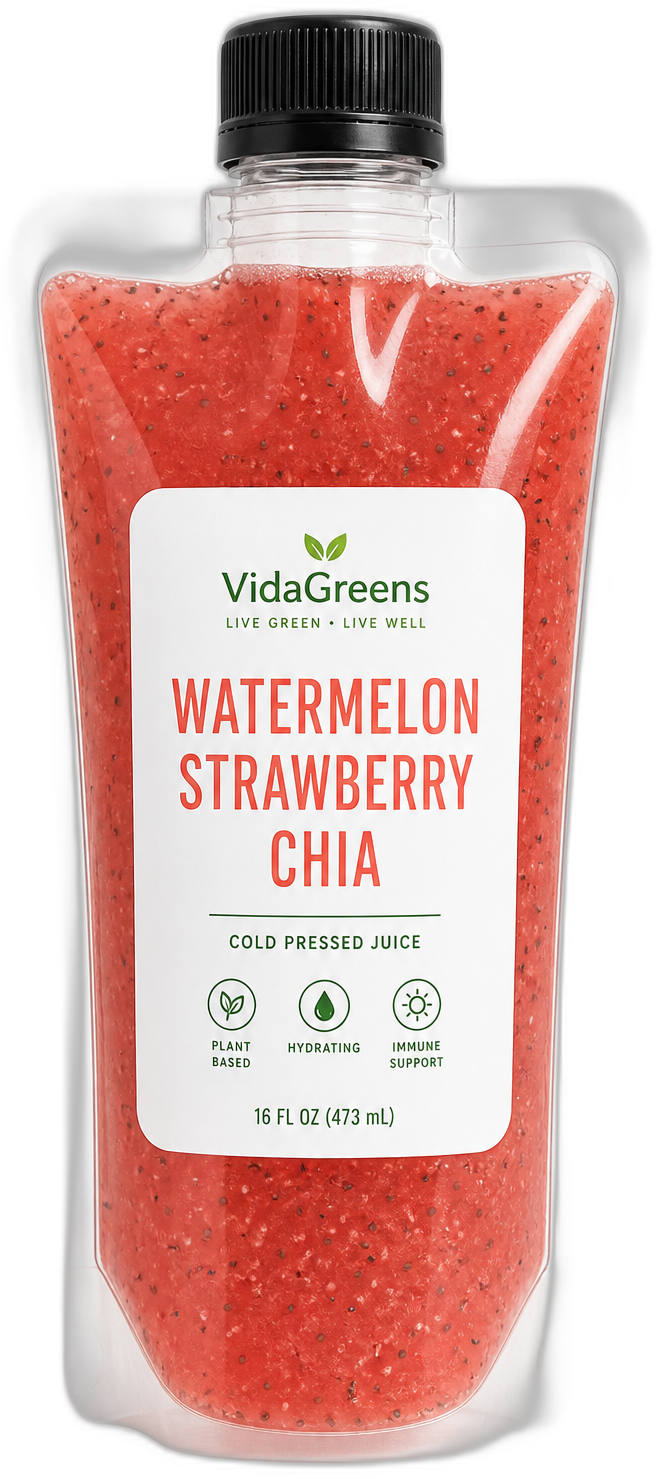
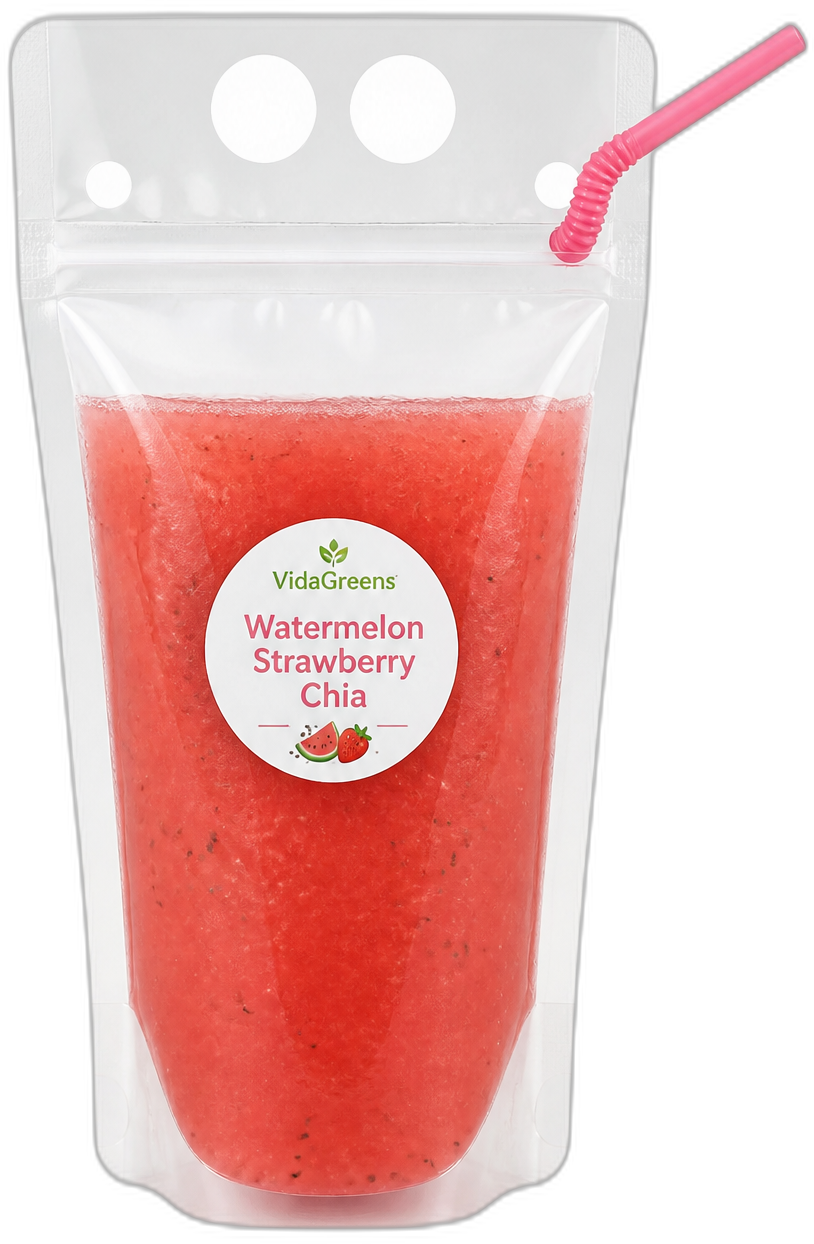
Match product art to clear zipper drink pouches
Replace spout-cap pouch images with stand-up clear zipper pouches
(finger holes, straw slots) matching the reusable juice-bag style, and
update copy to describe zipper packaging.

diff --git a/index.html b/index.html
@@ -5,7 +5,7 @@
     <meta name="viewport" content="width=device-width, initial-scale=1" />
     <meta
       name="description"
-      content="VidaGreens — Huntington Park’s cold-pressed smoothie bar. Clear 16 oz pouches, pressed fresh. Pickup and shipping available."
+      content="VidaGreens — Huntington Park’s cold-pressed smoothie bar. Clear zipper drink pouches, pressed fresh. Pickup and shipping available."
     />
     <meta name="theme-color" content="#1F3D2C" />
     <title>VidaGreens — Huntington Park Smoothie Bar</title>
@@ -74,7 +74,7 @@
           <img
             class="hero__pouch"
             src="images/pouch-watermelon.png"
-            alt="VidaGreens Watermelon Strawberry Chia clear 16 fl oz smoothie pouch"
+            alt="VidaGreens Watermelon Strawberry Chia clear zipper drink pouch with straw"
             width="656"
             height="1479"
             fetchpriority="high"
@@ -83,16 +83,16 @@
         <div class="hero__copy">
           <p class="hero__locale">Huntington Park smoothie bar</p>
           <p class="hero__brand">VidaGreens</p>
-          <h1 class="hero__headline">Fresh blends in a clear pouch—made for real days.</h1>
+          <h1 class="hero__headline">Fresh blends in a clear zipper pouch—made for real days.</h1>
           <p class="hero__support">
-            Cold-pressed smoothies with whole fruit, greens, and nothing you can’t pronounce. Pickup
-            on Pacific, or ship cold to your door.
+            Cold-pressed smoothies sealed in reusable clear drink pouches with zipper tops and
+            straw holes. Pickup on Pacific, or ship cold to your door.
           </p>
           <div class="hero__actions">
             <a class="btn btn--primary" href="#menu">Explore the menu</a>
             <a class="btn btn--ghost" href="#contact">Confirm a pickup</a>
           </div>
-          <p class="hero__spec">Pressed daily · Clear 16 FL OZ · Pickup &amp; shipping</p>
+          <p class="hero__spec">Pressed daily · Clear zipper 16 FL OZ · Pickup &amp; shipping</p>
         </div>
       </section>
 
@@ -132,8 +132,8 @@
             <p>Fruit, greens, nuts, seeds. No syrups, no powders, no “flavor systems.”</p>
           </li>
           <li>
-            <strong>Clear for a reason</strong>
-            <p>See the color, the chia, the real blend—transparency you can hold.</p>
+            <strong>Zipper &amp; go</strong>
+            <p>Clear stand-up pouches with resealable zippers, finger holes, and straw slots.</p>
           </li>
           <li>
             <strong>Kept cold, always</strong>
@@ -147,8 +147,8 @@
           <p class="eyebrow">The menu</p>
           <h2 class="section__title">Four blends. Built like a smoothie bar.</h2>
           <p class="section__lede">
-            Hydrate, greens, or cacao comfort—each clear pouch is a full 16 oz ritual you can take
-            anywhere.
+            Hydrate, greens, or cacao comfort—each clear zipper pouch is a full 16 oz ritual with a
+            straw, ready for anywhere.
           </p>
         </div>
 
@@ -163,12 +163,12 @@
             <div class="pouch-row__visual">
               <img
                 src="images/pouch-watermelon.png"
-                alt="Watermelon Strawberry Chia clear 16 oz pouch"
+                alt="Watermelon Strawberry Chia clear zipper drink pouch"
                 loading="lazy"
               />
             </div>
             <div class="pouch-row__body">
-              <p class="pouch-row__meta">Hydrate · 16 FL OZ · $8</p>
+              <p class="pouch-row__meta">Hydrate · Zipper pouch · $8</p>
               <h3 class="pouch-row__name">Watermelon Strawberry Chia</h3>
               <p class="pouch-row__best">Best for: post-walk cool-down · sunny afternoons</p>
               <p class="pouch-row__desc">
@@ -190,12 +190,12 @@
             <div class="pouch-row__visual">
               <img
                 src="images/pouch-chocolate.png"
-                alt="Chocolate Almond clear 16 oz pouch"
+                alt="Chocolate Almond clear zipper drink pouch"
                 loading="lazy"
               />
             </div>
             <div class="pouch-row__body">
-              <p class="pouch-row__meta">Plant protein vibe · 16 FL OZ · $8</p>
+              <p class="pouch-row__meta">Plant protein vibe · Zipper pouch · $8</p>
               <h3 class="pouch-row__name">Chocolate Almond</h3>
               <p class="pouch-row__best">Best for: morning fuel · afternoon craving</p>
               <p class="pouch-row__desc">
@@ -217,12 +217,12 @@
             <div class="pouch-row__visual">
               <img
                 src="images/pouch-blueberry.png"
-                alt="Blueberry &amp; Greens clear 16 oz pouch"
+                alt="Blueberry &amp; Greens clear zipper drink pouch"
                 loading="lazy"
               />
             </div>
             <div class="pouch-row__body">
-              <p class="pouch-row__meta">Antioxidant greens · 16 FL OZ · $8</p>
+              <p class="pouch-row__meta">Antioxidant greens · Zipper pouch · $8</p>
               <h3 class="pouch-row__name">Blueberry &amp; Greens</h3>
               <p class="pouch-row__best">Best for: desk days · steady energy</p>
               <p class="pouch-row__desc">
@@ -244,12 +244,12 @@
             <div class="pouch-row__visual">
               <img
                 src="images/pouch-pineapple.png"
-                alt="Pineapple &amp; Greens clear 16 oz pouch"
+                alt="Pineapple &amp; Greens clear zipper drink pouch"
                 loading="lazy"
               />
             </div>
             <div class="pouch-row__body">
-              <p class="pouch-row__meta">Tropical reset · 16 FL OZ · $8</p>
+              <p class="pouch-row__meta">Tropical reset · Zipper pouch · $8</p>
               <h3 class="pouch-row__name">Pineapple &amp; Greens</h3>
               <p class="pouch-row__best">Best for: midday lift · pre-gym brightness</p>
               <p class="pouch-row__desc">
@@ -299,8 +299,8 @@
             <li>
               <span>03</span>
               <div>
-                <h3>Seal clear</h3>
-                <p>Filled into clear 16 oz pouches, labeled, and chilled for pickup or ship.</p>
+                <h3>Zip &amp; chill</h3>
+                <p>Filled into clear zipper drink pouches, straw-ready, and chilled for pickup or ship.</p>
               </div>
             </li>
           </ol>
@@ -530,7 +530,7 @@
         <div>
           <p class="footer__brand">VidaGreens</p>
           <p class="footer__tag">
-            Huntington Park smoothie bar · Clear 16 oz pouches · Pickup &amp; shipping
+            Huntington Park smoothie bar · Clear zipper pouches · Pickup &amp; shipping
           </p>
         </div>
         <nav class="footer__nav" aria-label="Footer">
